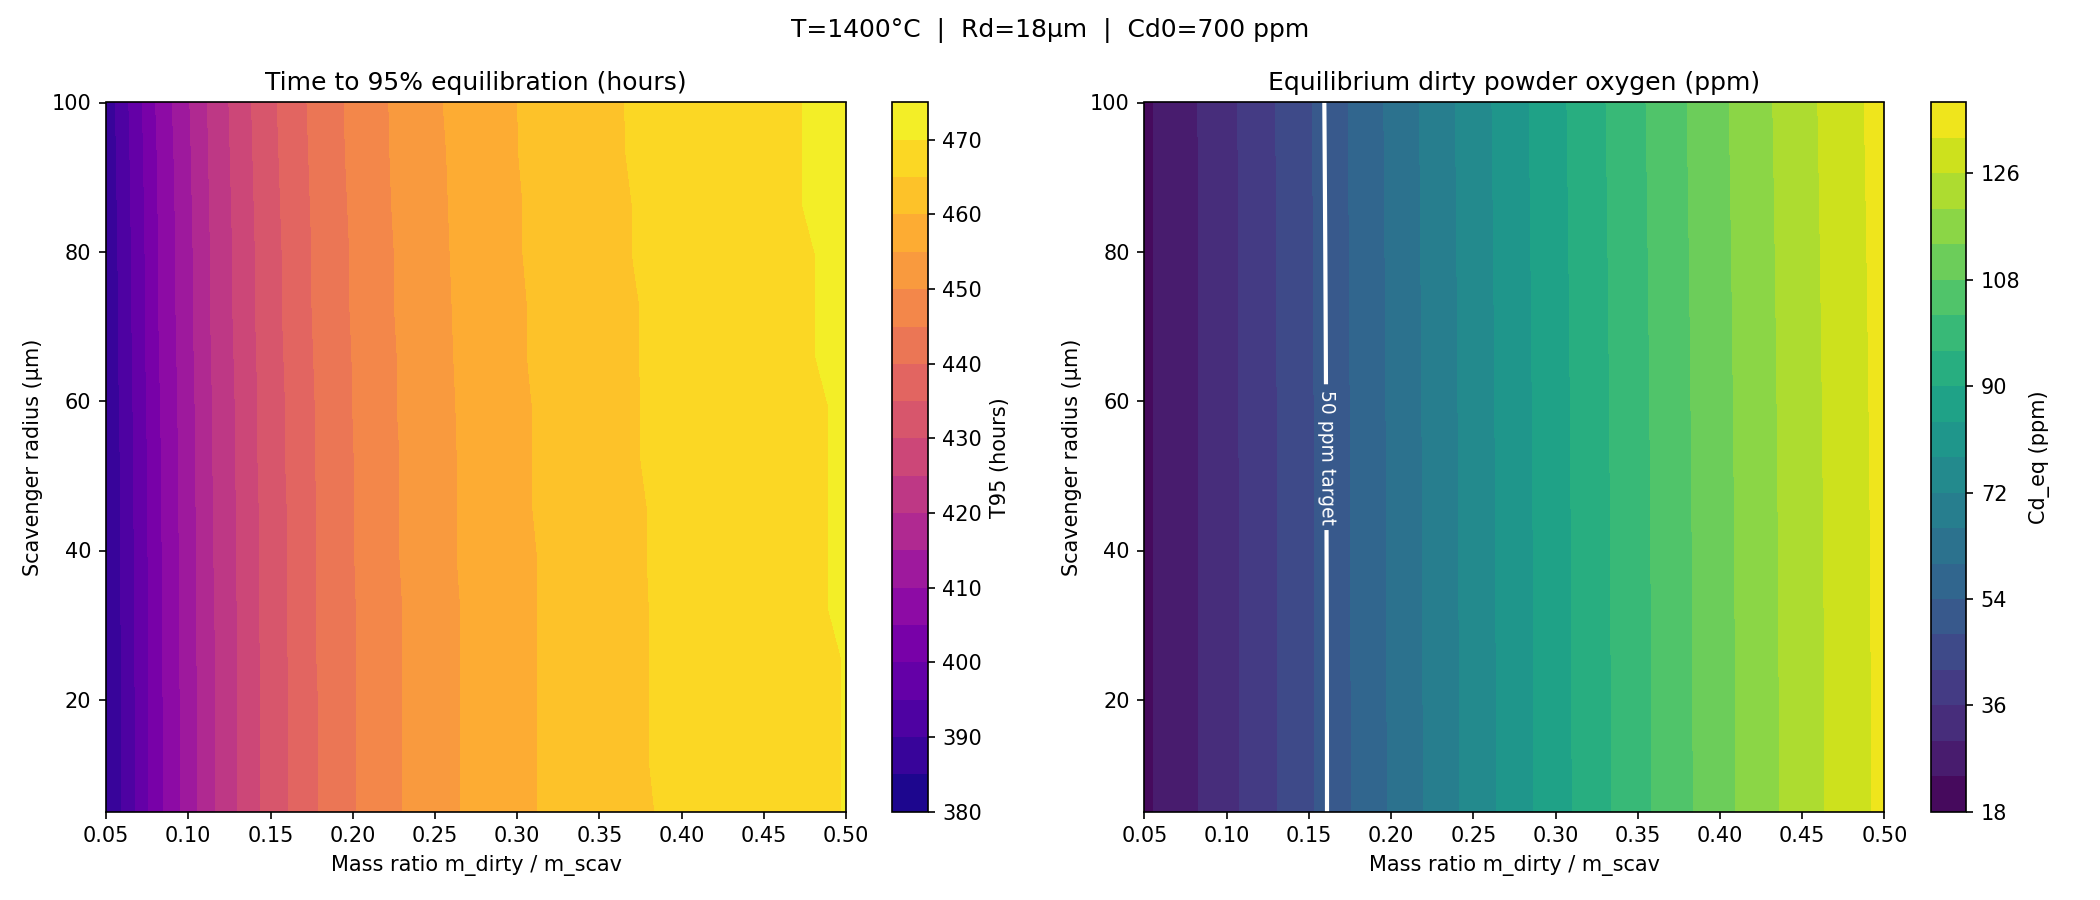
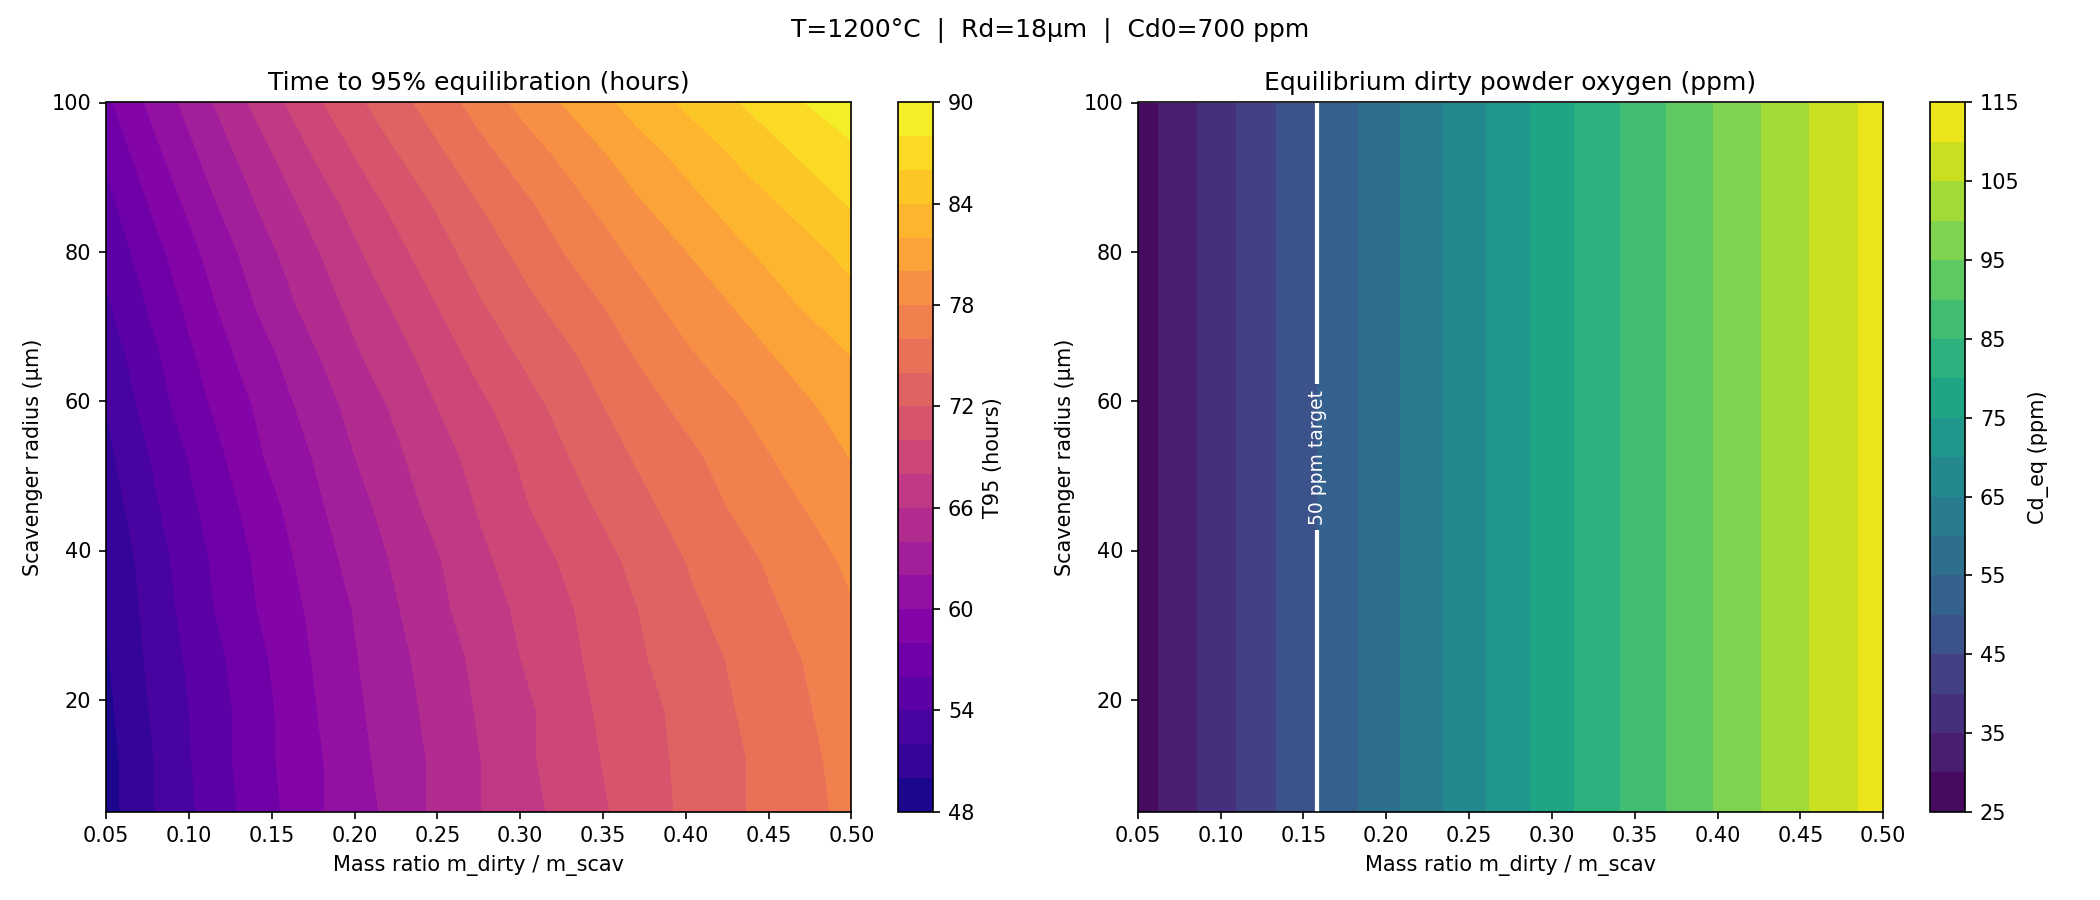
Change activation energy of dirty powder and lower T

diff --git a/optimizer.py b/optimizer.py
@@ -13,7 +13,7 @@ from materials import Rgas, Dd0, Qd, Ds0, Qs, Csat_dirty, tantalum_solubility
 # ---------------------------
 # Fixed conditions
 # ---------------------------
-T       = 1400 + 273.15  # K
+T       = 1200 + 273.15  # K
 Cd0     = 700.0          # wt ppm
 Cs0     = 50.0           # wt ppm
 mass_dirty = 1.0

diff --git a/materials.py b/materials.py
@@ -15,7 +15,7 @@ Rgas = 8.314  # J/mol/K
 # Dirty powder (W assumption)
 # ---------------------------
 Dd0 = 1e-7        # m^2/s
-Qd  = 200e3       # J/mol
+Qd  = 150e3       # J/mol
 Csat_dirty = 1000 # wt ppm, assumed fixed for now
 
 # ---------------------------
